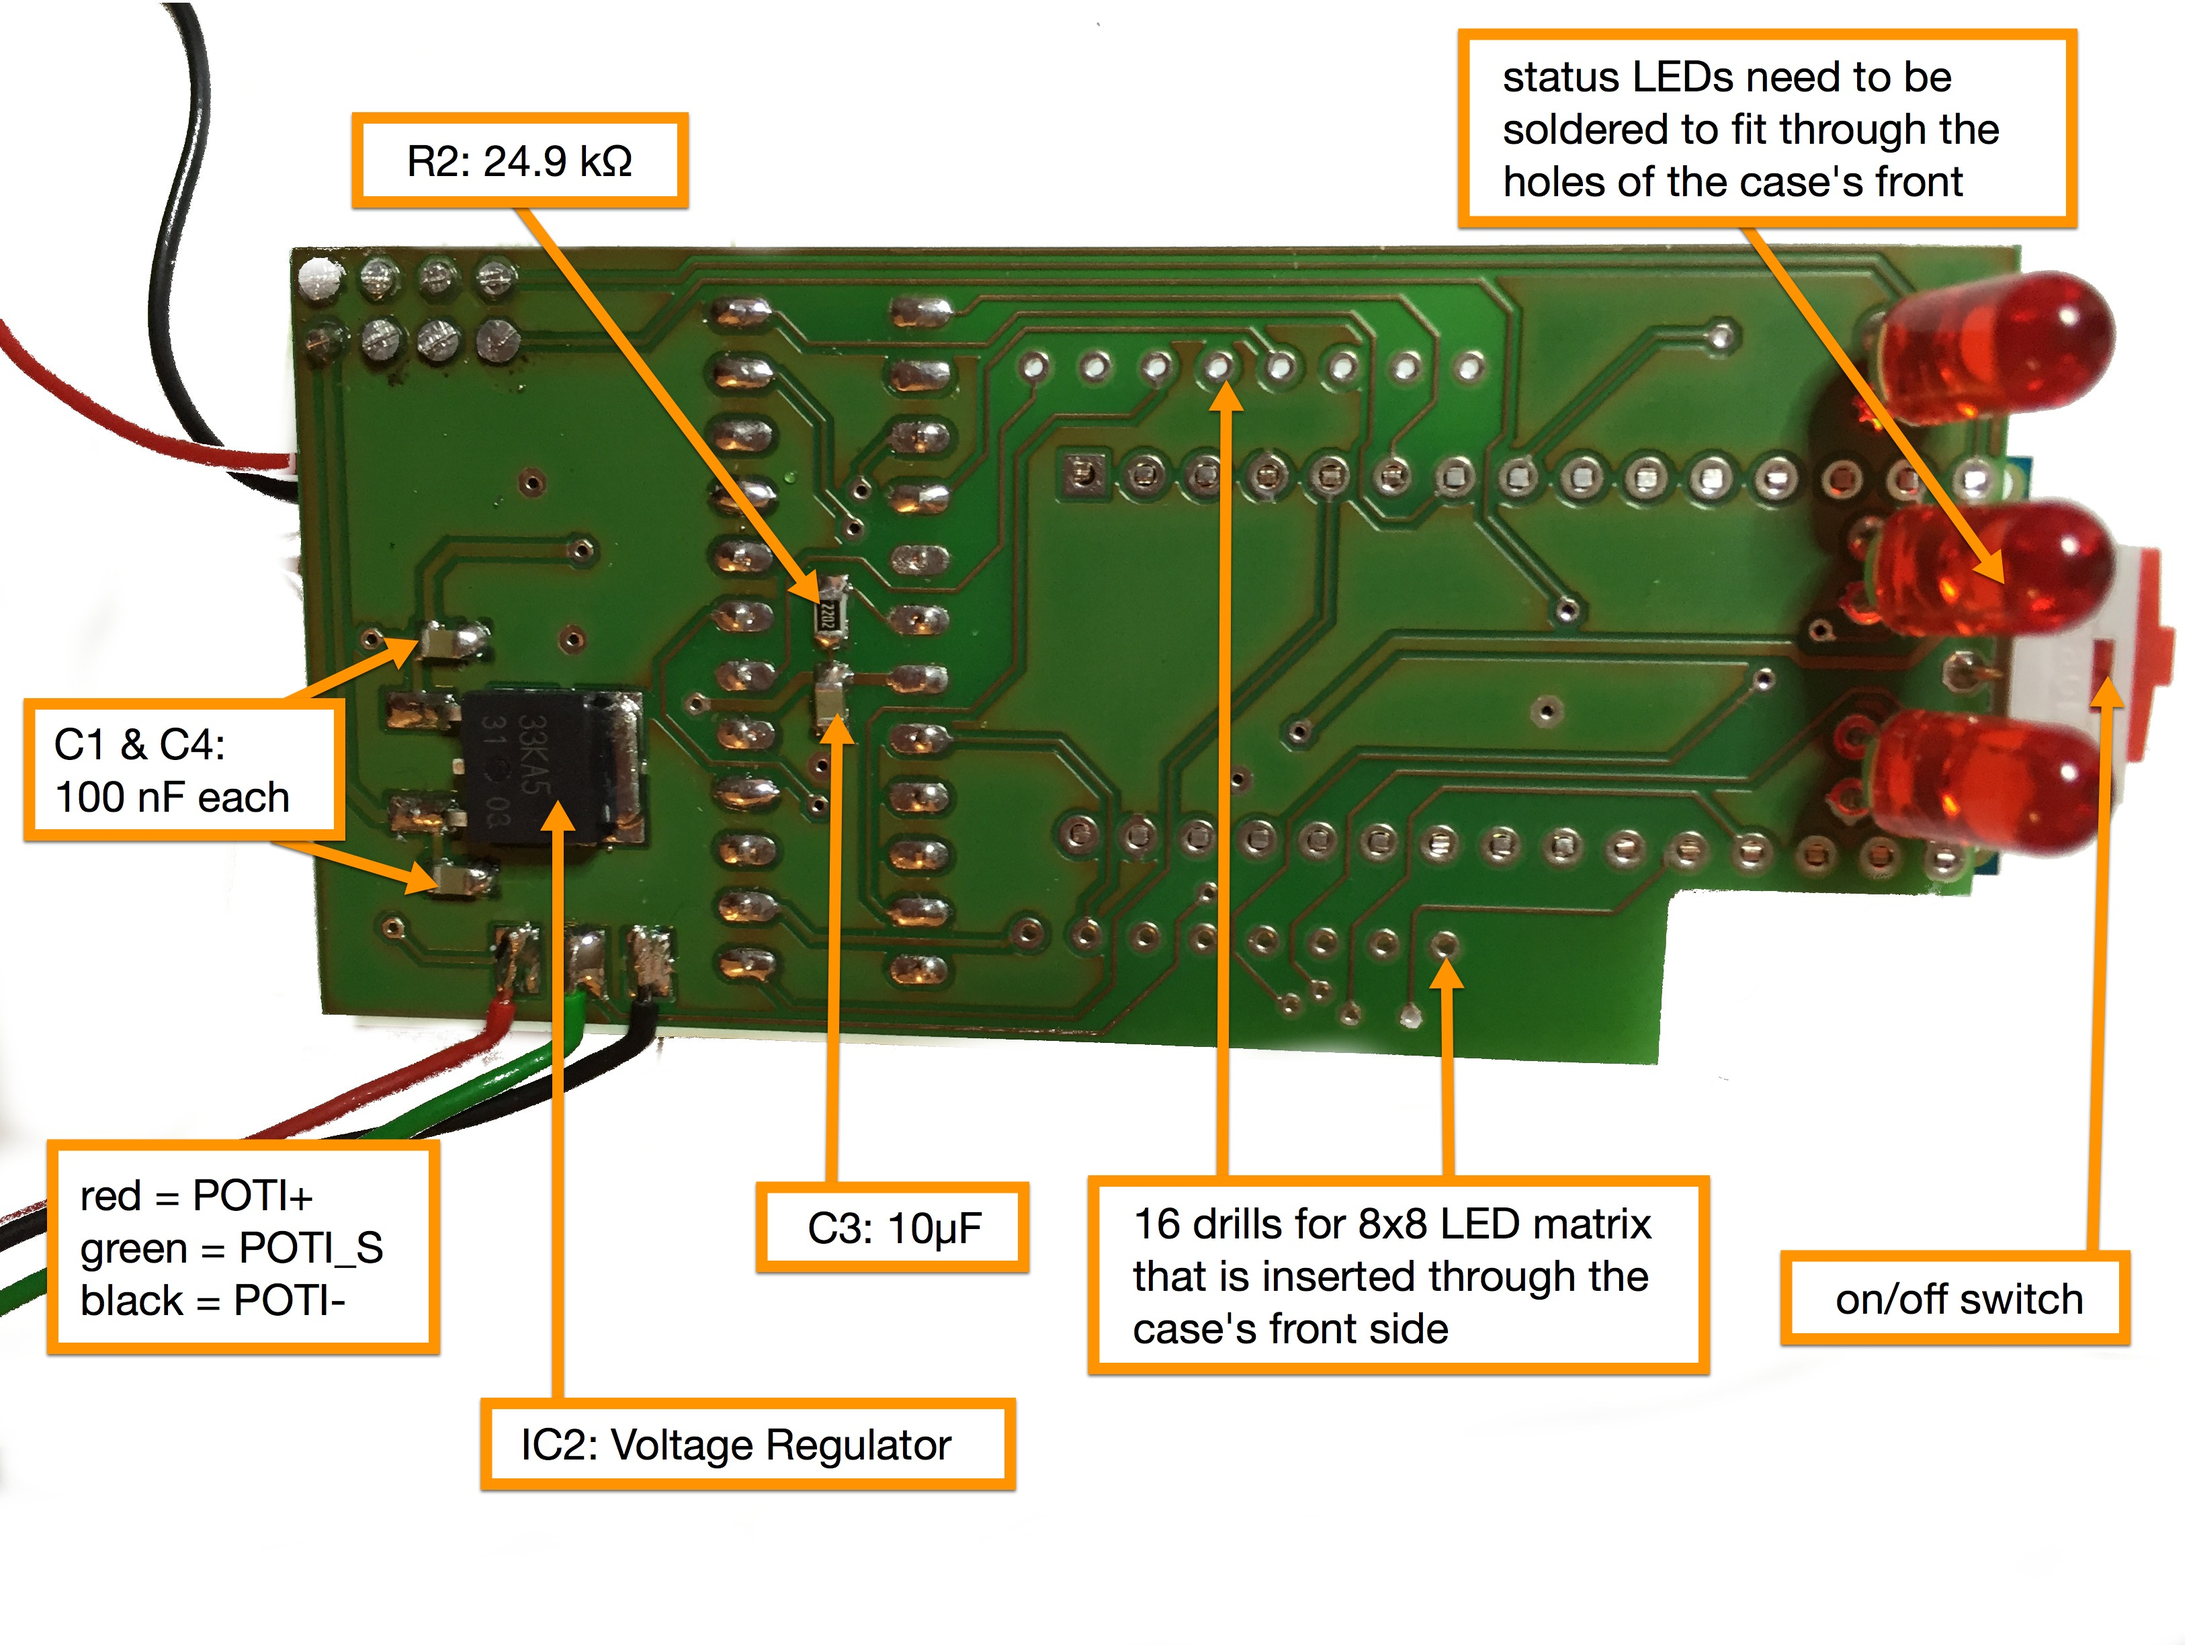
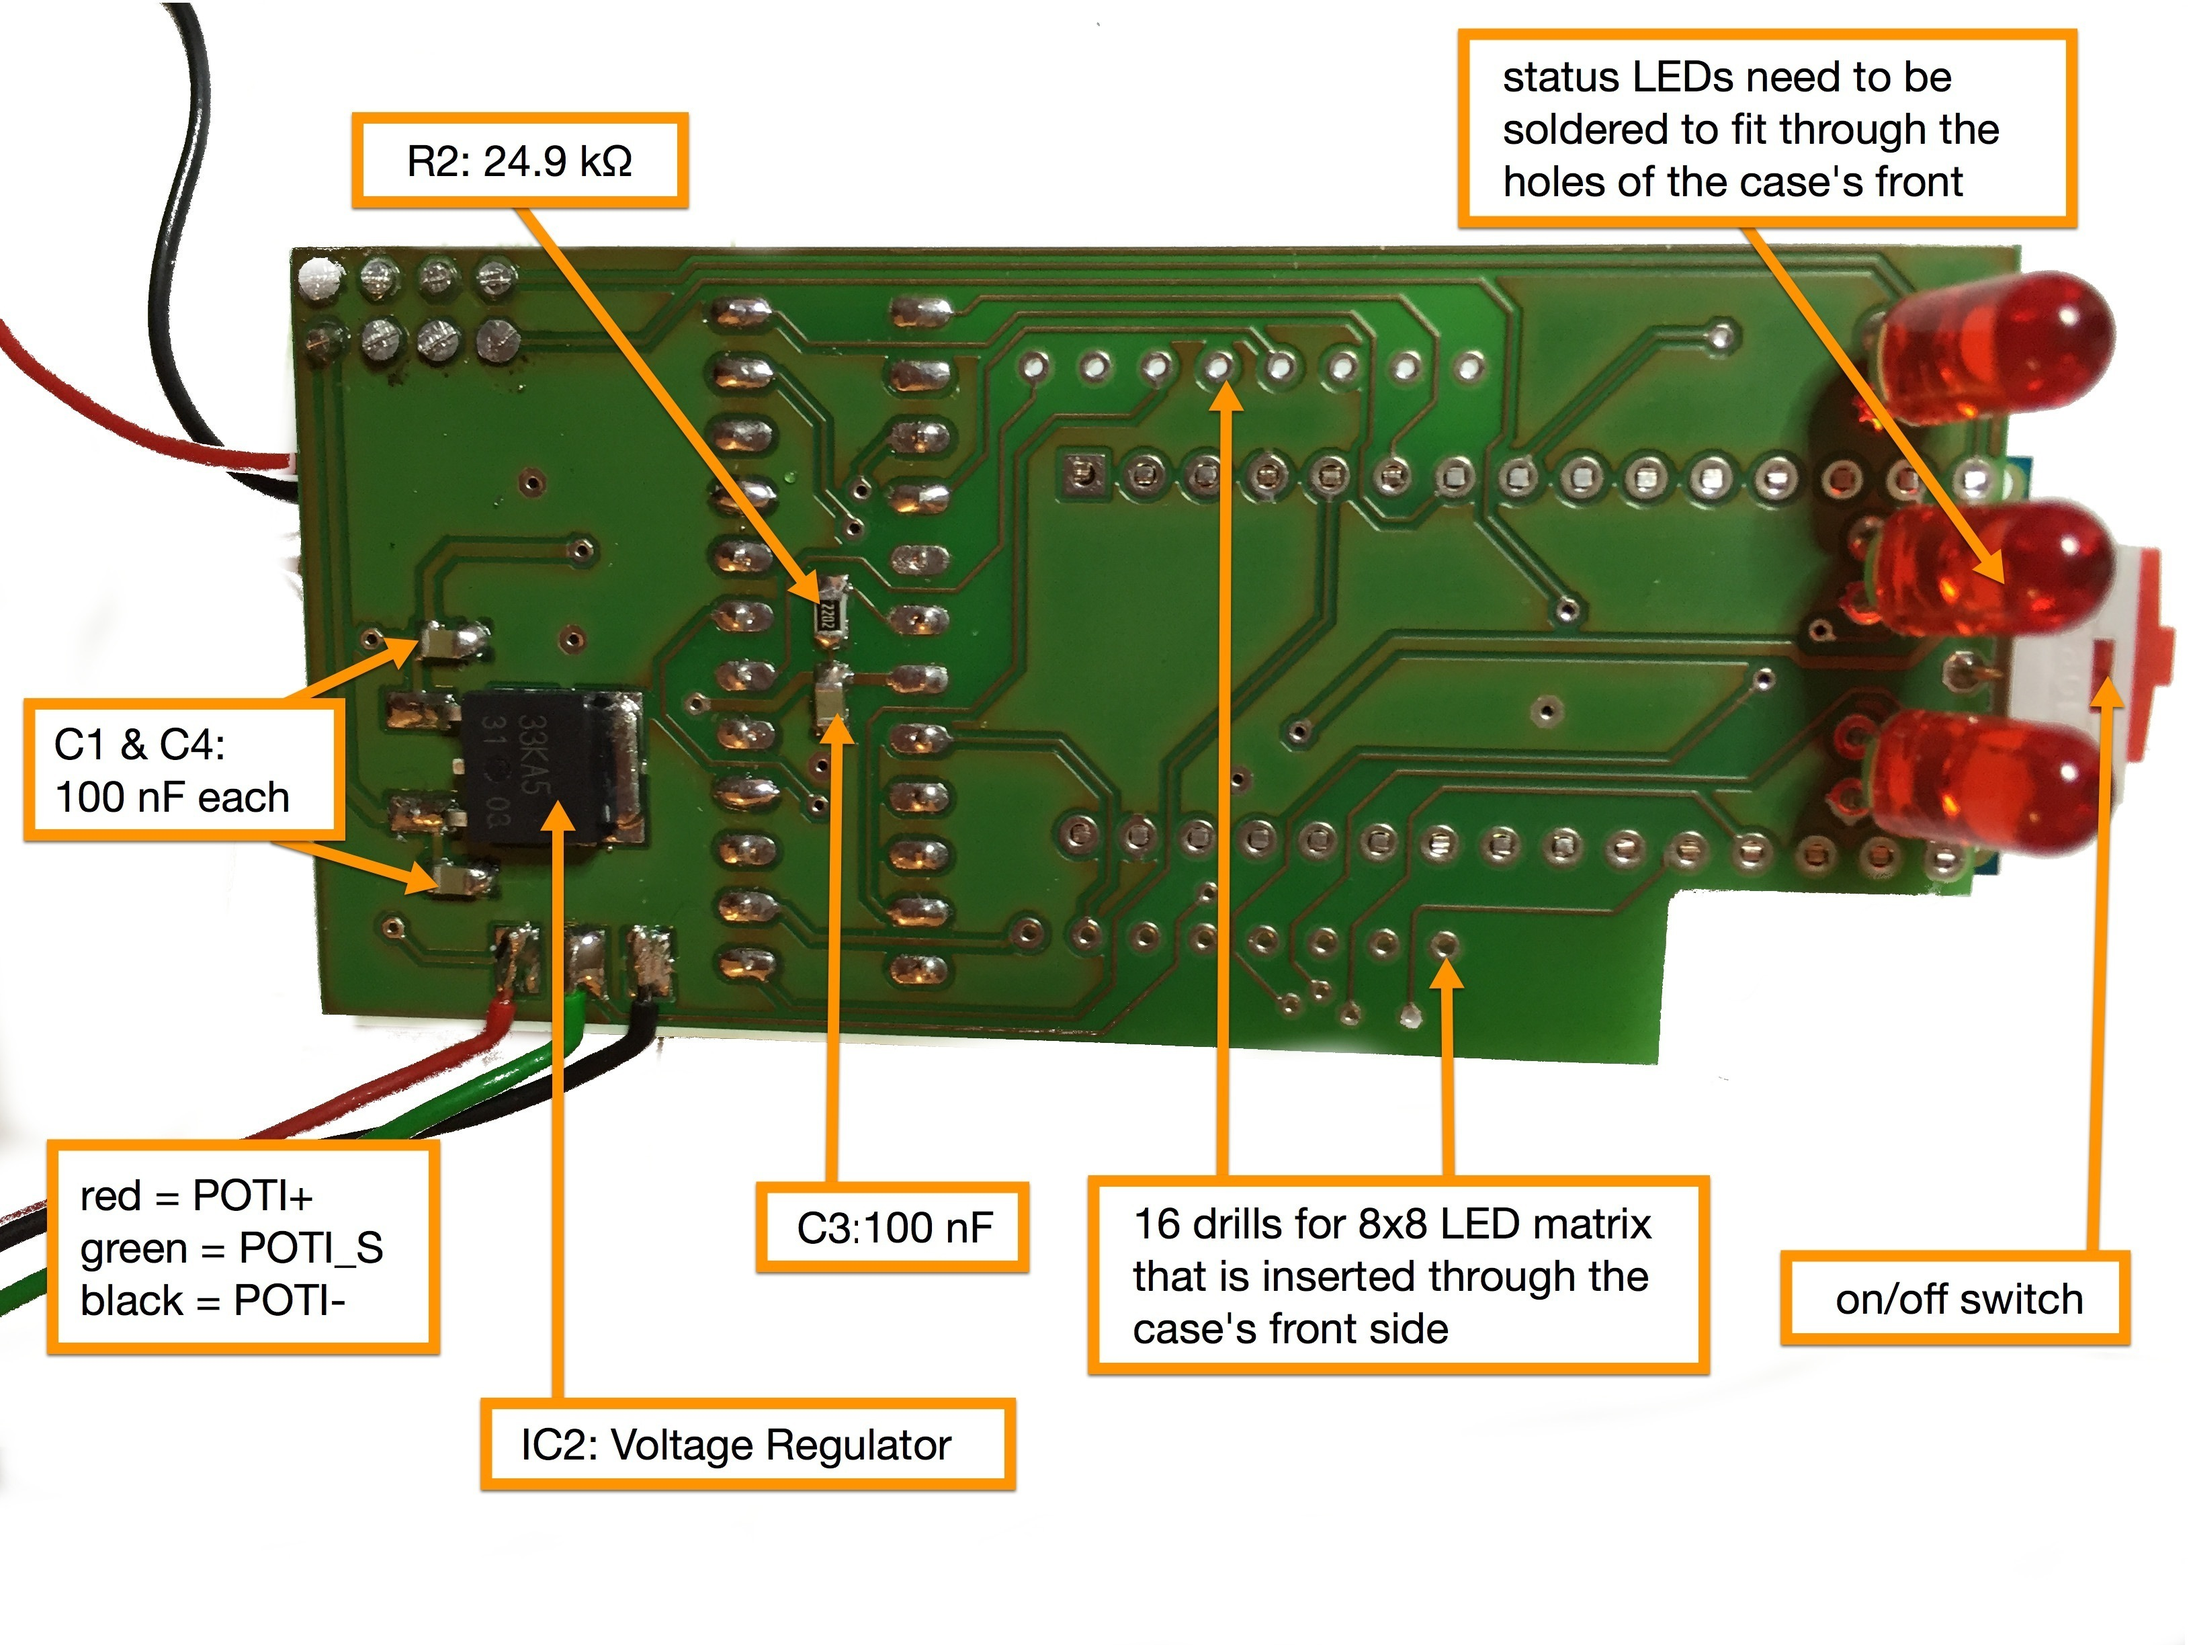
wip documentation and pages

Changed region(s): [[0.3438, 0.7141, 0.4688, 0.7761]]

diff --git a/doc/electronics.md b/doc/electronics.md
@@ -14,6 +14,12 @@ assembly:
   - name: pcb_top_with_parts_large.jpg
     thumb: pcb_top_with_parts_thumb.jpg
     text: TeleBall PCB Top Layer Assembly Diagram
+  - name: pcb_bottom_with_parts1_large.jpg
+    thumb: pcb_bottom_with_parts1_thumb.jpg
+    text: TeleBall PCB Bottom Layer Assembly Diagram (without Arduino and radio)
+  - name: pcb_bottom_with_parts2_large.jpg
+    thumb: pcb_bottom_with_parts2_thumb.jpg
+    text: TeleBall PCB Bottom Layer Assembly Diagram (including Arduino and radio)    
 ---
 
 {% include gallery_init.html %}
@@ -25,11 +31,10 @@ Schematics
 ----------
 
 ![Schematics Overview](eagle/circuit.png)
-Abbreviations:
 
 * BAT+ / BAT-: Battery+ and Battery- aka GND, directly wired via battery clips
-* +UB: 6V battery power *after* the on/off switch
-* +3V3: 3.3V regulated by IC2 VREG3, needed by the radio SV1
+* +UB: 6 V battery power (coming from BAT+) but *after* the on/off switch
+* +3V3: 3.3 V regulated by IC2 VREG3, needed by the radio SV1
 
 * MODUL1 ARDUINO: Microcontroller - see details below
 * KWM-R30881CBB: 8x8 LED Display - see details below
@@ -42,10 +47,10 @@ Abbreviations:
 * BUTTON+ / BUTTON-: *Reverse logic* button +/-, i.e. not pressed = current flowing
 * LS+ / LS-: Speaker +/-
 * POTI+, POTI-, POTI_S: 10kΩ potentiometer's +, - and signal line
-* C2: 10µF current buffer (capacitor) for MAX7221
-* C1, C3, C4: 100nF anti-oscillation capacitors
-* R2: 24.9kΩ voltage and current selector resistor for MAX7221
-* R5, R6, R7: 8.2kΩ series resistor for LEDs
+* C2: 10 µF current buffer (capacitor) for MAX7221
+* C1, C3, C4: 100 nF anti-oscillation capacitors
+* R2: 24.9 kΩ voltage and current selector resistor for MAX7221
+* R5, R6, R7: 8.2 kΩ series resistor for LEDs
 
 * MOSI, MISO, SCK, IRQ, CSN, CE: Wiring that connects the Arduino with the Radio
 * DATAIN, CLOCK, LOAD: Wiring that connects the Arduino with the LED Display Driver
@@ -136,16 +141,15 @@ Assembly Diagram
 
 Download high-resolution versions of the assembly diagrams:
 [Top Layer Photo](eagle/pcb_top_with_parts_large.jpg) and
-[Bottom Layer Photo](eagle/xxx.jpg)
+[Bottom Layer Photo](eagle/pcb_bottom_with_parts1_large.jpg)
 
 ### Some Hints for Assembling and Soldering TeleBall
 
-* You might want to print out the above-mentioned graphical assembly diagrams.
-  Additionally, the high-resolution PDFs of the board schematics might be
-  useful, too: [Top Layer Schematics](eagle/BreakOut-8x8-rev2-board2-top.pdf) and
+* You might want to print out the above-mentioned high-resolution versions of the
+  graphical assembly diagrams. Additionally, the high-resolution PDFs of the board
+  schematics might be useful, too:
+  [Top Layer Schematics](eagle/BreakOut-8x8-rev2-board2-top.pdf) and
   [Bottom Layer Schematics](eagle/BreakOut-8x8-rev2-board3-bottom.pdf)
-
-* You need to cut the legs of the ICs after you soldered them.
 
 * How to solder the SMD parts (like the capacitors Cx or the resistors Rx):
   Tin-coat one pad; while the tin-solder is still liquid, use a pair of
@@ -153,11 +157,24 @@ Download high-resolution versions of the assembly diagrams:
   starts to sit firm; now heat the second pad and let the tin-solder flow
   below the SMD part; let it cool down again; done.
 
-* The 8x8 LED matrix is the last part that you solder: Insert it through the
-  case's front side (there are dedicated holes for that) while holding the
-  PCB against the inside of the case. While doing so, you are basically
-  filtering in the 8x8 LED matrix through the case as well as through the
-  PCB and therefore, this action "glues" both elements together.
+* Solder all SMD parts (top and bottom side of the PCB) first, including the
+  voltage regulator (IC2 VREG3). Then go on with MAX7221 (IC1). Then do
+  the on/off switch (SCHALTER) and after that the LEDs and the cables for
+  the speaker (LS+ and LS-) as well as the cables for the potentiometer.
+  Only then, solder the Arduino (MODUL1 ARDUINO) and the radio breakout
+  board (SV1). The reason for this suggested soldering order is, that
+  some of the larger parts like the Arduino and the radio breakout board
+  are hiding some of the smaller parts and some of the cables.
+
+* You need to cut the legs of the ICs after you soldered them. Cut the
+  Arduino Nano "head" pins before soldering it (they would interfere
+  with the speaker if not cut).
+
+* The 8x8 LED matrix is the last part of TeleBall that you solder: Insert it
+  through the case's front side (there are dedicated holes for that) while
+  holding the PCB against the inside of the case. While doing so, you are
+  basically filtering in the 8x8 LED matrix through the case as well as
+  through the PCB and therefore, this action "glues" both elements together.
 
 * Be mindful about the length of the cables. We advise to use red cables
   for +, black cables for - and other colors for signal cables. Additionally,

diff --git a/doc/case.md b/doc/case.md
@@ -53,6 +53,9 @@ readydevice:
   - name: photo10.jpg
     thumb: thumb10.jpg
     text: TeleBall Disassembly 5
+  - name: 16teleballs.jpg
+    thumb: 16teleballs_thumb.jpg
+    text: 16 TeleBalls
 ---
 
 {% include gallery_init.html %}
